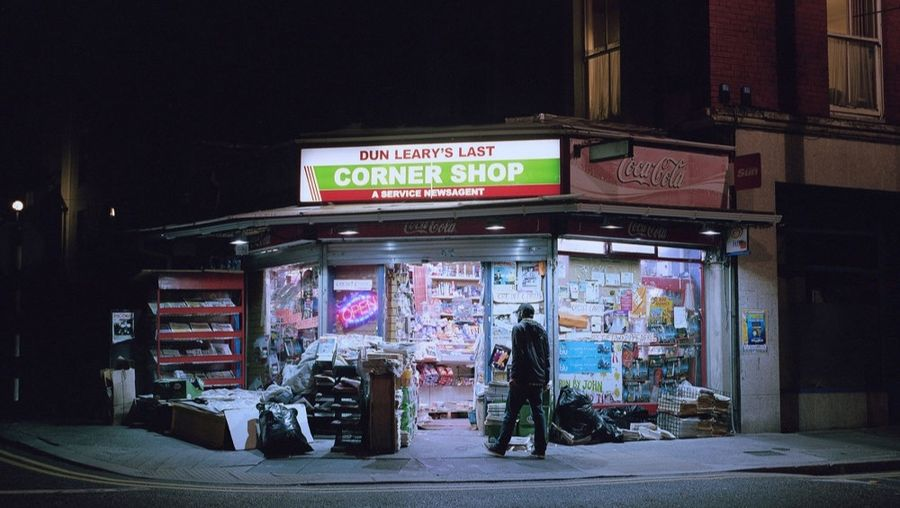
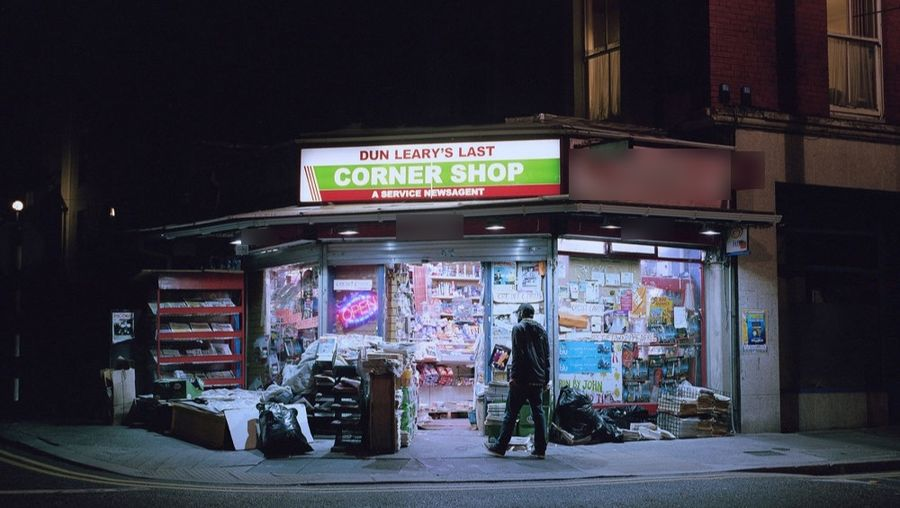
Seven more city photos; remove identifiable-person, watermarked and real-business images; blur brand marks; rename Fidelity Savings; add ASSETS.md
Claude-Session: https://claude.ai/code/session_01EXRJYCqYAHPUQUR1Z5xQa9

Changed region(s): [[0.6222, 0.2953, 0.84, 0.3839], [0.4356, 0.4134, 0.5289, 0.4724], [0.6844, 0.4429, 0.7156, 0.4724]]

diff --git a/src/game.js b/src/game.js
@@ -11,7 +11,7 @@ export const hm=ms=>{const m=Math.ceil(ms/MIN);return m>=60?Math.floor(m/60)+"h 
 // ---- data ----
 export const CITY_IMG="city-night.jpg";
 export const hqImg=s=>"hq-"+Math.max(1,Math.min(5,officeTier(s.off||0)))+".jpg";
-export const BIZ_IMG={corner:"biz-corner.jpg",pawn:"biz-pawn.jpg",laundromat:"biz-laundromat.jpg",restaurant:"biz-restaurant.jpg",warehouse:"biz-warehouse.jpg",hotel:"biz-hotel.jpg",bank:"biz-bank.jpg",shipping:"biz-shipping.jpg",casino:"casino.jpg"};
+export const BIZ_IMG={corner:"biz-corner.jpg",laundromat:"biz-laundromat.jpg",restaurant:"biz-restaurant.jpg",warehouse:"biz-warehouse.jpg",hotel:"biz-hotel.jpg",bank:"biz-bank.jpg",shipping:"biz-shipping.jpg",casino:"casino.jpg"};
 export const BANK_IMG="bank-vault.jpg";
 // Bank: clean cash kept in the vault is safe from raids, earns slow interest, and can be put into fixed-term investments.
 export const BANK_RATE=.004; // per hour on the vault balance
@@ -32,7 +32,7 @@ export const BIZ=[
   {id:"warehouse",n:"Pier 14 Warehouse",d:"Crates come in. Crates go out.",lvl:18,cost:1500000,inc:70000,heat:6},
   {id:"casino",n:"Golden Ace Casino",d:"The house always eats.",lvl:24,cost:3200000,inc:150000,heat:5},
   {id:"hotel",n:"Hotel Meridian",d:"Forty floors of people who'd rather not be found.",lvl:32,cost:9000000,inc:400000,heat:4},
-  {id:"bank",n:"Fidelity Savings",d:"A small bank with big friends.",lvl:40,cost:18000000,inc:780000,heat:4},
+  {id:"bank",n:"Ferrante Savings",d:"A small bank with big friends.",lvl:40,cost:18000000,inc:780000,heat:4},
   {id:"shipping",n:"Meridian Lines",d:"Forty ships. Nobody opens the containers.",lvl:48,cost:45000000,inc:1800000,heat:6},
 ];
 export const FX=[

diff --git a/src/economy.js b/src/economy.js
@@ -137,5 +137,5 @@ export const takeoverPrice=p=>p*3;                  // buying someone out costs 
 export const landIncome=s=>Object.keys(s.land||{}).reduce((a,k)=>a+(LM[k]?landRate({p:(s.land[k].p)||LM[k].p}):0),0);
 // Ids that have art in public/img: eco-<id>.jpg for goods, office-1..3.jpg for offices. Add ids here as pictures arrive.
 export const ART=new Set(["re_3_3","re_3_4","lx_6_2"]);   // Grand hotel, Palace hotel
-export const LAND_ART=new Set(["l0_0","l0_1","l0_2","l0_3","l0_4","l0_5","l1_0","l1_1","l1_2","l1_3","l1_4","l2_0","l2_1","l2_2"]);   // local area, town, and the first three cities
+export const LAND_ART=new Set(["l0_0","l0_3","l0_4","l0_5","l1_0","l1_1","l1_2","l1_3","l1_4","l2_0","l2_1","l2_2","l2_3","l2_4","l2_5","l3_0","l3_2","l3_3","l3_4"]);   // places with a photo. Left out on purpose: l0_1, l0_2 and l3_1 (see ASSETS.md)
 export const OFFICE_ART=new Set([1,2,3,4,5]);

diff --git a/src/bank.jsx b/src/bank.jsx
@@ -17,7 +17,7 @@ export function Bank({s,go,name}){
   return(<div className="ofc">
     <div className="ofhero bankhero">
       <img src={IMG(G.BANK_IMG)} alt="" draggable="false"/><div className="ofshade"/>
-      <div className="oftitle"><small>Fidelity Savings</small><h1>The vault</h1><span>{name}'s account · safe from raids</span></div>
+      <div className="oftitle"><small>Ferrante Savings</small><h1>The vault</h1><span>{name}'s account · safe from raids</span></div>
     </div>
     <div className="ofgrid">
       <Tile k="Cash on hand" v={$(s.cash)} sub="Raids can take this"/>

diff --git a/ASSETS.md b/ASSETS.md
@@ -1,0 +1,21 @@
+# Image and name clean-up (legal risk)
+
+This is a risk checklist, not legal advice. The code cannot tell where a picture came from, so the owner has to confirm each source.
+
+## Removed or fixed
+- `land-l0_2` (Market Street): a photo of an identifiable woman. Removed. People's faces need their written permission.
+- `land-l3_1` (Tokyo): a photo of an identifiable woman. Not added. Use a Tokyo skyline instead.
+- `land-l0_1` (Old Quarter): had a visible "Meta AI" watermark. Removed. Add a replacement you made yourself or have a licence for.
+- `biz-pawn` (Gold & Pawn): a real pawn shop with its real phone numbers and card-scheme logos. Removed.
+- `biz-corner`: Coca-Cola and newspaper logos blurred. The shop sign still shows a real shop name.
+- `biz-laundromat`: review-site logo blurred.
+- `item-revolver`: maker name and serial number blurred.
+- "Fidelity Savings" renamed "Ferrante Savings" (Fidelity is a real financial brand).
+
+## Still needs a decision from the owner
+- **Where each picture came from.** Photos found on the web (towns and cities, shop fronts, hotels, blade, revolver, sports car, necklace, watch, cigars, whisky, chips, yacht shots) are normally copyrighted by the photographer, even without a watermark. Keep a licence, receipt or screenshot of the licence page for each, or replace them with pictures you made or bought. Pictures you generated yourself (badges, passport cards, characters, offices, houses) are lower risk, but read the generator's terms for commercial use.
+- **The word "Mafia".** The passport card pictures, `logo.png` and `favicon.png` say "MAFIA". That is a registered video-game trademark. Avoid it in the app name and store listing, and ideally regenerate those pictures.
+- **The name "Omertà".** Other games use it. Run a trademark search in the countries you publish in before launch.
+- **Real buildings and cars.** The Las Vegas hotel photos and the red sports car show real, recognisable brands. Low risk in a game, but replace them if a rights holder complains.
+- **Privacy policy.** Chat, player ids and sign-in go through Firebase. Google Play requires a privacy policy and a data-safety form.
+- **Git history.** Removed pictures stay in earlier commits. If a picture must vanish completely, rewrite history or recreate the repository.
